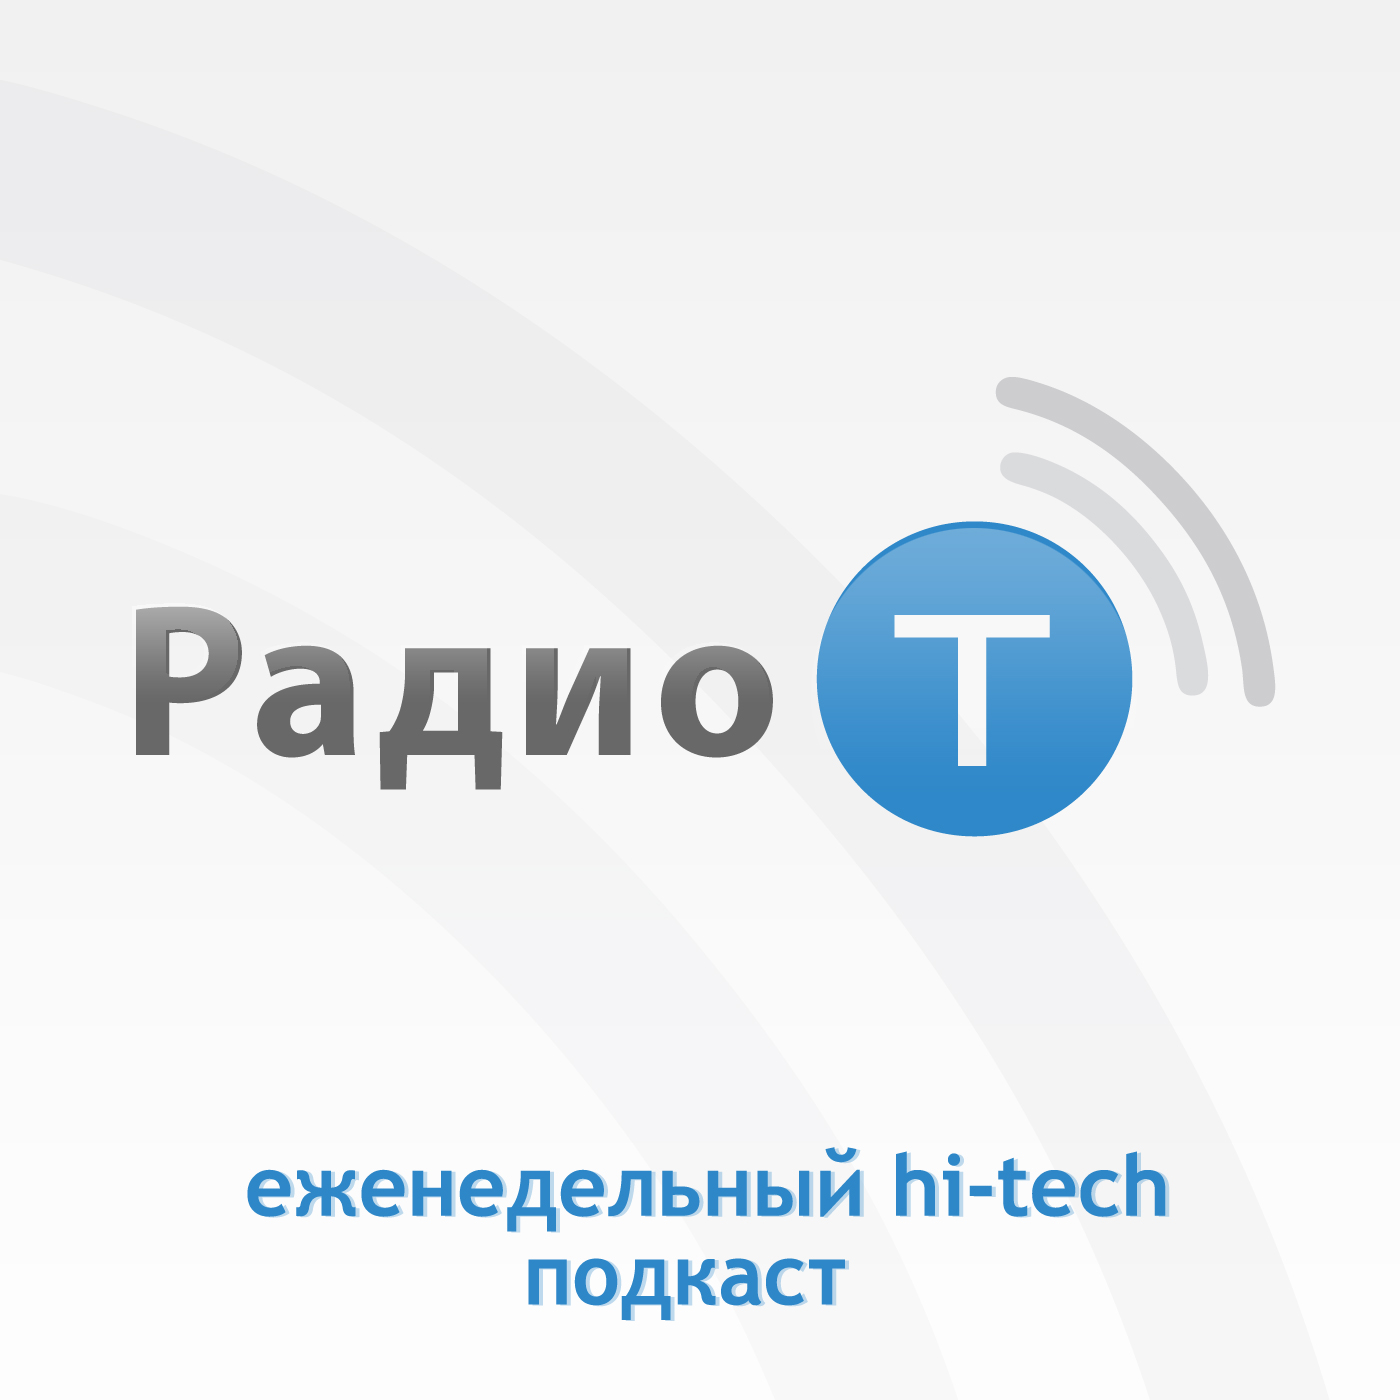
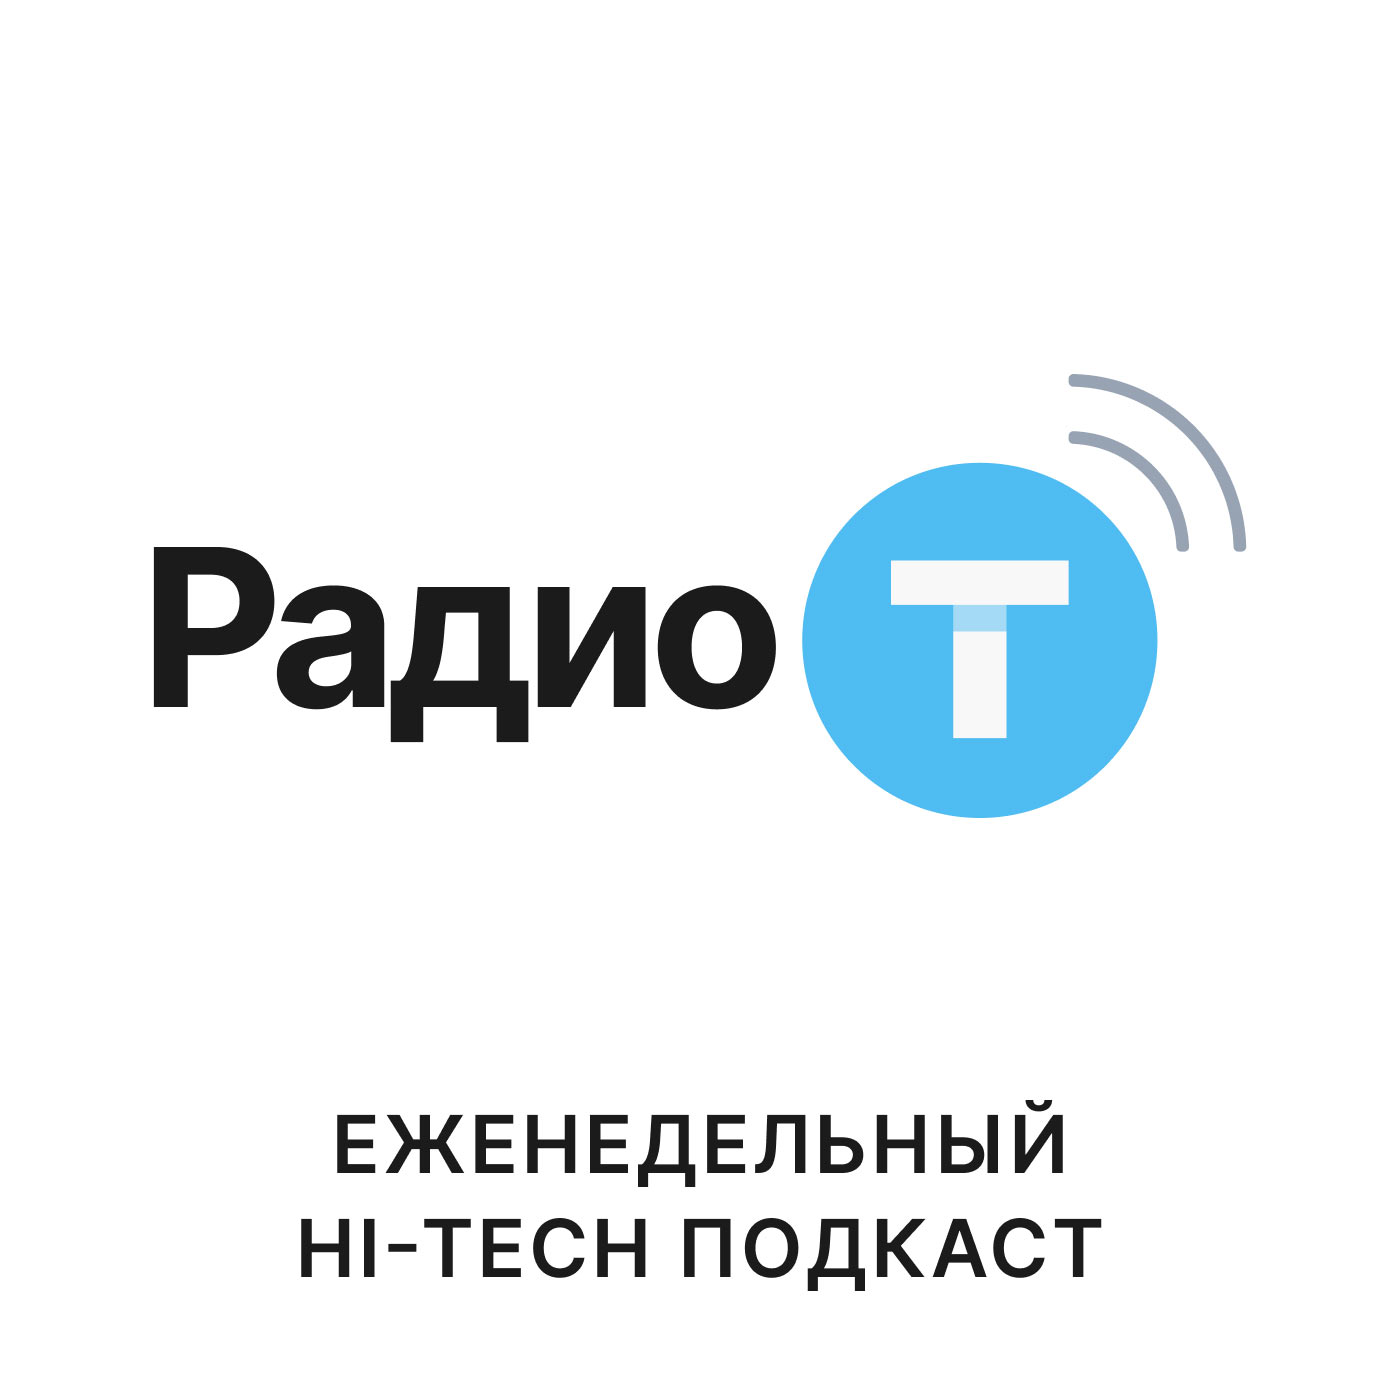
update covers

Changed region(s): [[0.0921, 0.2457, 0.9214, 0.6143], [0.1536, 0.7679, 0.86, 0.9521]]

diff --git a/hugo/src/scss/app.scss b/hugo/src/scss/app.scss
@@ -472,7 +472,7 @@ $jumbotron-arc-width: 120%;
   border-radius: 4px;
   //box-shadow: 0 1px 3px rgba($black, .05);
   padding-bottom: 100%;
-  background-image: url('../images/default-cover.jpg');
+  background-image: url('/images/covers/cover.png');
   background-size: cover;
   background-position: center center;
   background-repeat: no-repeat;

diff --git a/hugo/src/scss/_last-comments.scss b/hugo/src/scss/_last-comments.scss
@@ -19,7 +19,7 @@
   width: 100%;
   border-radius: 4px;
   padding-bottom: 100%;
-  //background-image: url('../images/default-cover.jpg');
+  //background-image: url('../images/default-avatar.jpg');
   background-color: $gray-200;
   background-size: cover;
   background-position: center center;

diff --git a/hugo/generate_rss.py b/hugo/generate_rss.py
@@ -19,11 +19,11 @@ SAVE_TO = '/srv/hugo/public'
 DATA_RSS = './data/rss'
 FEEDS = [
     {'name': 'podcast', 'title': 'Радио-Т',
-     'image': 'https://radio-t.com/images/cover.jpg', 'count': 20, 'size': True},
+     'image': 'https://radio-t.com/images/covers/cover.png', 'count': 20, 'size': True},
     {'name': 'podcast-archives', 'title': 'Радио-Т Архивы',
-     'image': 'https://radio-t.com/images/cover_rt_big_archive.png', 'count': 1000, 'size': False},
+     'image': 'https://radio-t.com/images/covers/cover-archive.png', 'count': 1000, 'size': False},
     {'name': 'podcast-archives-short', 'title': 'Радио-Т Архивы',
-     'image': 'https://radio-t.com/images/cover_rt_big_archive.png', 'count': 25, 'size': False},
+     'image': 'https://radio-t.com/images/covers/cover-archive.png', 'count': 25, 'size': False},
 ]
 
 
